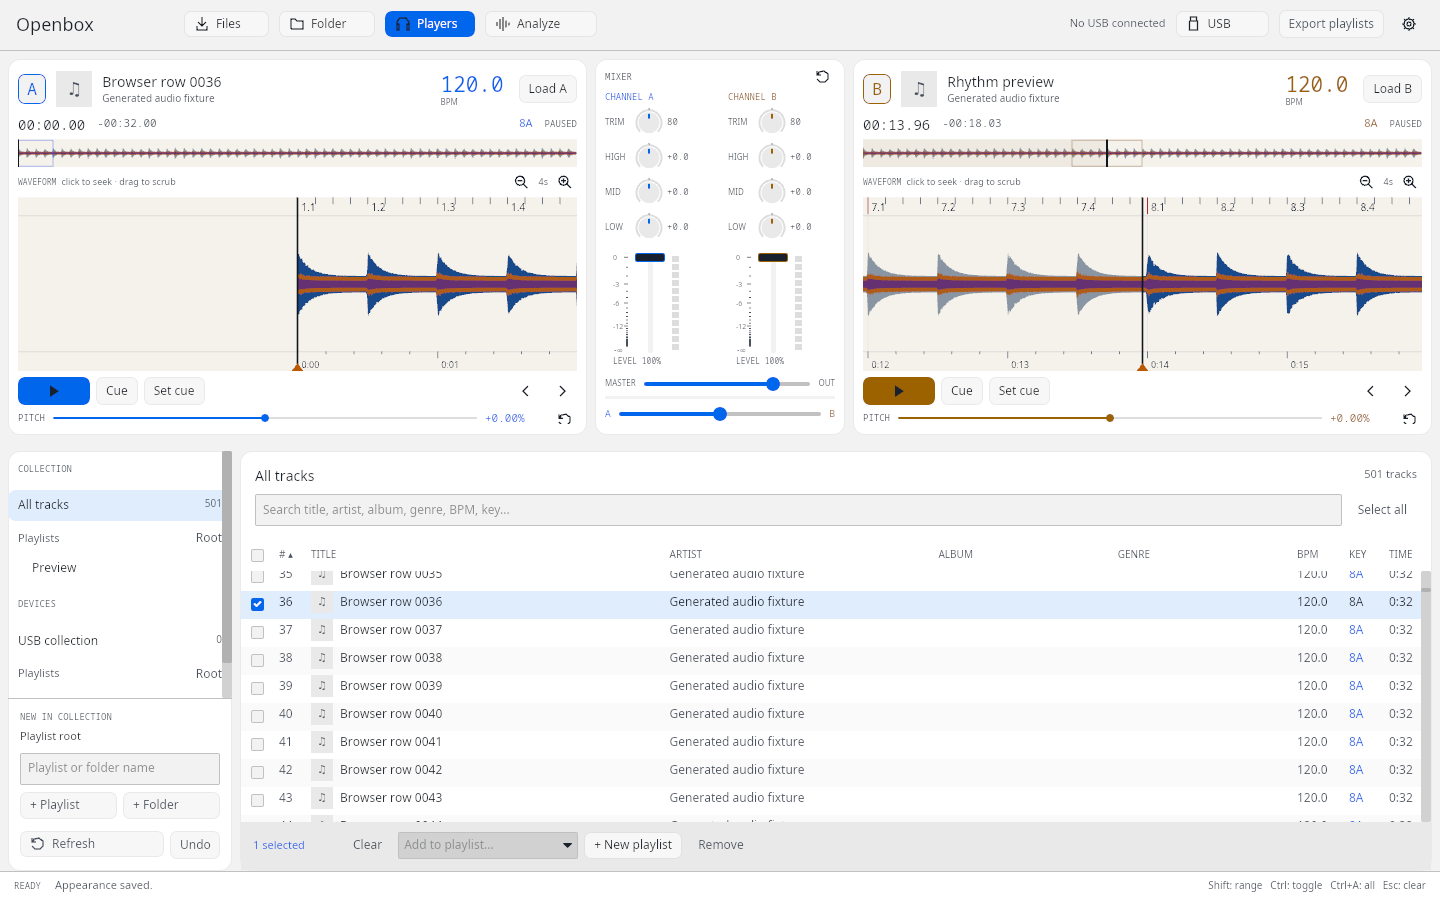
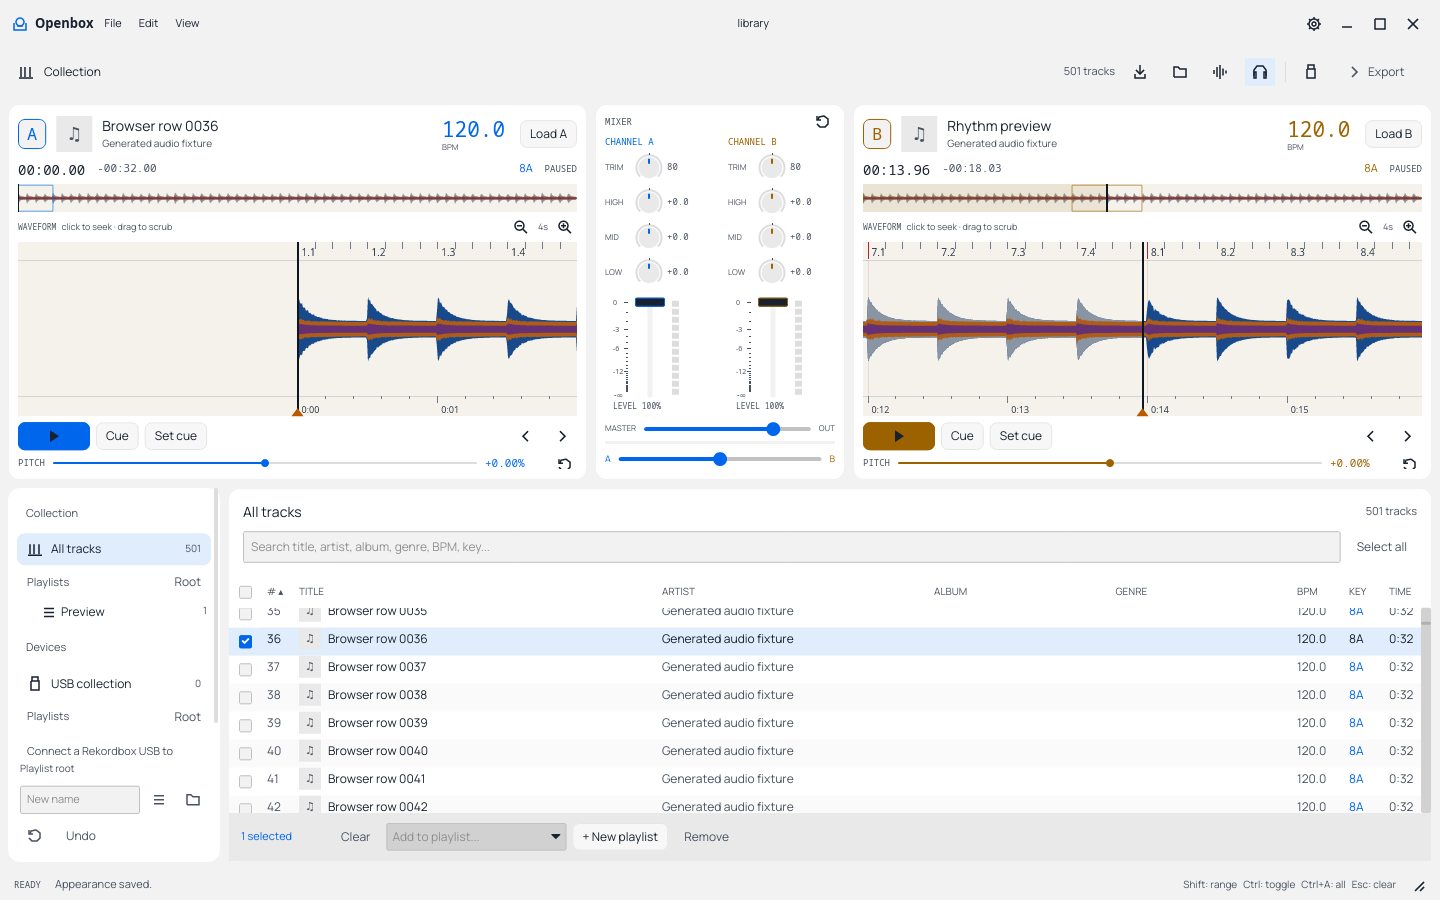
docs: show the refined native chrome and collection navigation

diff --git a/docs/VALIDATION.md b/docs/VALIDATION.md
@@ -5,7 +5,7 @@ Validated on Linux with Rust 1.96.1 and Iced 0.14. Commands use Cargo directly.
 | Check | Result |
 |---|---|
 | `cargo test --workspace --no-default-features` | Core crate tests |
-| `cargo test --workspace --all-targets` | 71 tests passed; 2 manual timing harnesses ignored, including audio mixing, waveform seeking, export progress, selection, bulk commands and startup parsing |
+| `cargo test --workspace --all-targets` | 80 tests passed; 3 manual timing harnesses ignored, including audio mixing, waveform seeking, export progress, selection, bulk commands and startup parsing |
 | `cargo check --workspace --all-targets` | Passed for desktop and all targets |
 | `cargo clippy --workspace --all-targets -- -D warnings` | Passed with warnings treated as errors |
 | `cargo fmt --all -- --check` | Passed |
@@ -46,7 +46,7 @@ Automatic beat numbering assumes 4/4 from the first detected beat. Musical downb
 
 The rendered-pixel regression checks blue bass ahead of the playhead and a warm waveform behind it using the real software renderer. The envelope tests check frequency-band dominance, higher-resolution detail, silence and invalid time bounds. Position tests check interpolation between snapshots, pitch, pause and track end. A knob test reproduces consecutive drags being mistaken for double-click reset. A native layout test verifies the library retains a useful viewport when the player panel is toggled.
 
-`OPENBOX_CHECK_MOTION=1` adds a 60 fps X11 capture to the player harness. It compares consecutive waveform crops, excluding the cursor, and requires at least 45 distinct updates per second. In this environment the previous release produced 23.1 fps; the GPU development build produced 53 distinct frames/sec on the Intel UHD desktop. Xvfb software rendering measured about 23 fps with the detailed rulers. These are local fixture measurements rather than a guarantee for every GPU, display, CPU or library.
+`OPENBOX_CHECK_MOTION=1` adds a 60 fps X11 capture to the player harness. It compares consecutive waveform crops, excluding the cursor, and requires at least 45 distinct updates per second. In this environment the previous release produced 23.1 fps; the GPU development build produced 51.3 to 53 distinct frames/sec on the Intel UHD desktop. Xvfb software rendering measured about 23 fps with the detailed rulers. These are local fixture measurements rather than a guarantee for every GPU, display, CPU or library.
 
 Three ignored timing harnesses can be run with `cargo test --release profile_ -- --ignored --nocapture`. They measure software waveform rasterization and construction/layout of a cached, filtered/sorted 5,000-track browser. Warm browser construction/layout measured about 0.08 ms at p95 after caching; previously browser construction alone measured about 3.8 ms. The overview cache and bounded envelope queries prevent full-song scans during animation. See ADR 005 for the rendering and cache rules.
 
@@ -55,3 +55,5 @@ The development profile optimizes the software rasterizer without disabling appl
 ## Appearance and panels
 
 The native settings journey exercises both modes, eight materials, six accents and ten waveform palettes, preference persistence across restart, restoring defaults and retaining the selected browser row after closing Settings. It checks that library and audio bytes are unchanged. Palette tests exercise 96 combinations for text contrast, accent saturation and persistence. A native layout test checks separate inset panels for the two decks and mixer. The default background/panel/chrome test uses the exact neutral Showbiz surface colours. Screenshots capture the actual native window.
+
+The shell layout regression runs at 1100 and 1440 pixels wide. It checks separate 48-pixel app/workspace bars, inset collection rows and a tree viewport of at least 260 pixels with decks visible at a 900-pixel window height. Native verification covers File/View menus, deck visibility, creating a playlist inside a selected nested folder, Settings and unchanged audio. On the real X11 desktop, caption dragging, maximize/restore, minimize, the resize grip and close all passed; native decoration hints confirm there is one title bar. The bundled Manrope faces retain their OFL.
